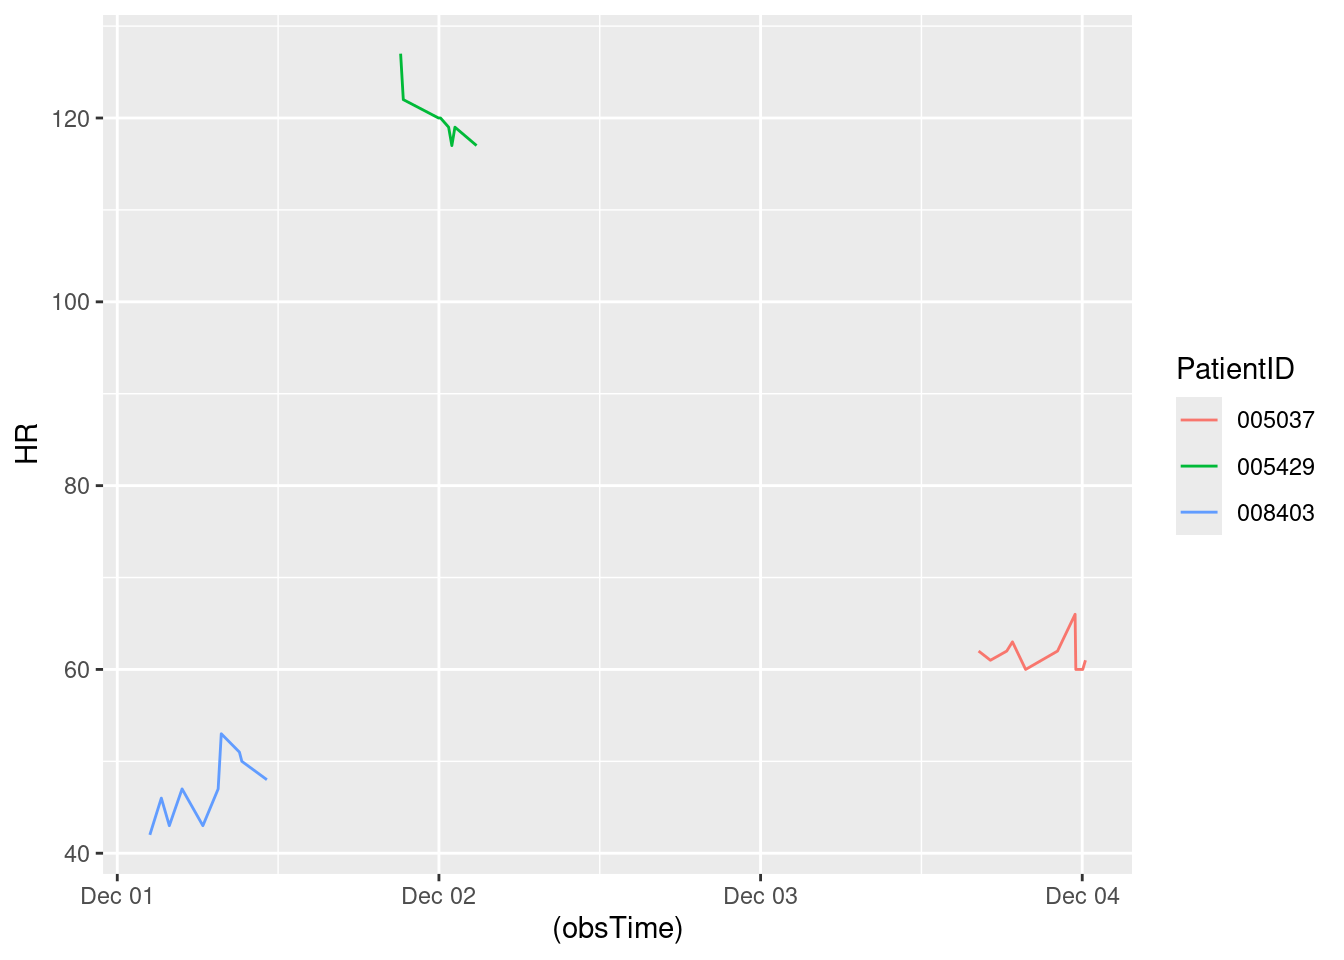
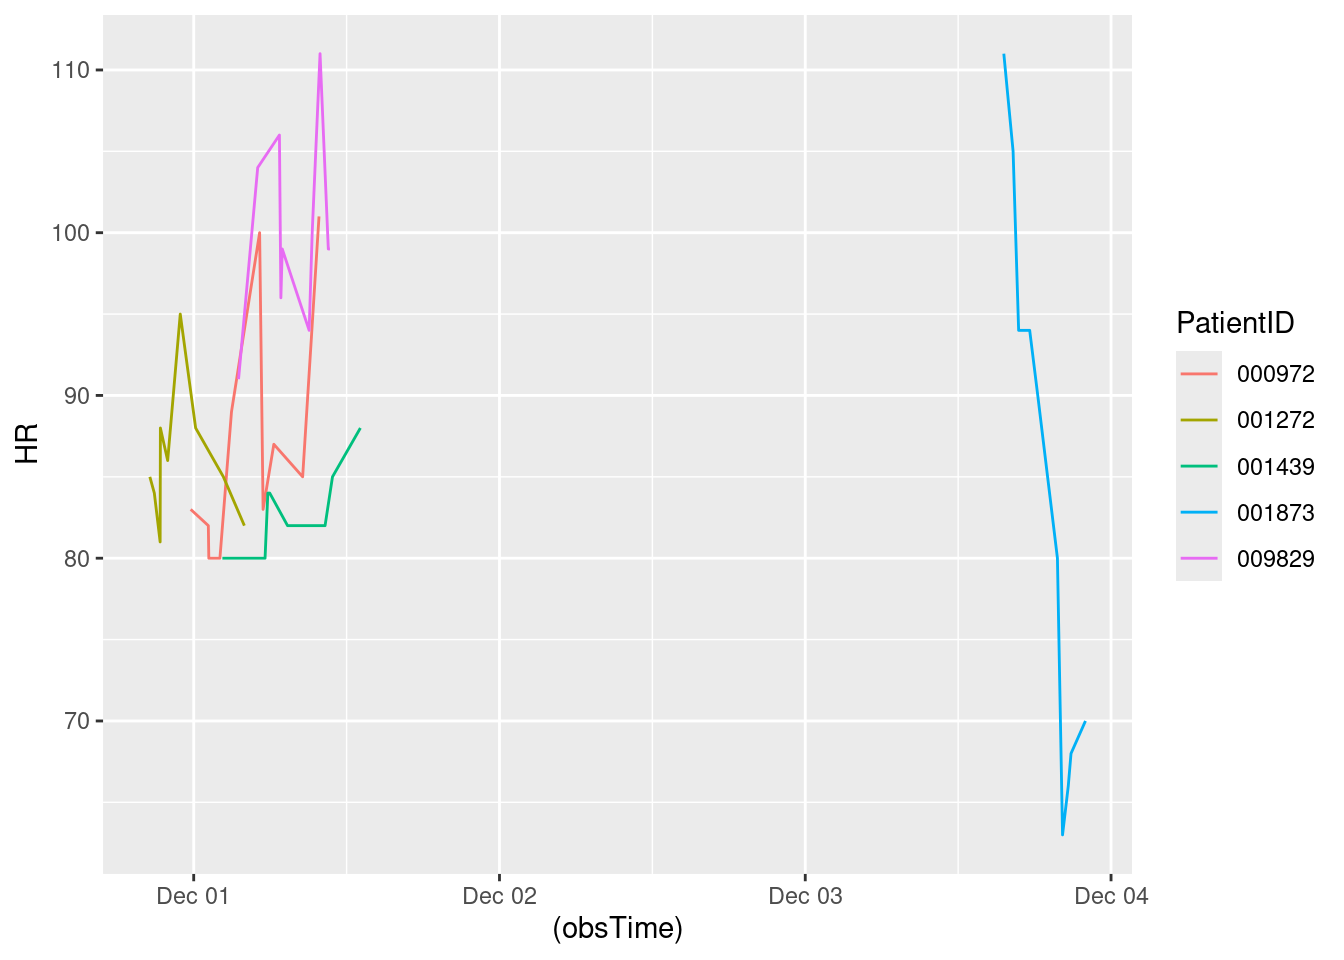
Updated report

diff --git a/HW7.html b/HW7.html
@@ -152,7 +152,7 @@ The following object is masked from 'package:purrr':
 </div>
 <div class="sourceCode cell-code" id="cb8"><pre class="sourceCode r code-with-copy"><code class="sourceCode r"><span id="cb8-1"><a href="#cb8-1" aria-hidden="true" tabindex="-1"></a><span class="fu">toc</span>()</span></code><button title="Copy to Clipboard" class="code-copy-button"><i class="bi"></i></button></pre></div>
 <div class="cell-output cell-output-stdout">
-<pre><code>25.07 sec elapsed</code></pre>
+<pre><code>25.008 sec elapsed</code></pre>
 </div>
 <div class="sourceCode cell-code" id="cb10"><pre class="sourceCode r code-with-copy"><code class="sourceCode r"><span id="cb10-1"><a href="#cb10-1" aria-hidden="true" tabindex="-1"></a><span class="fu">tic</span>()</span>
 <span id="cb10-2"><a href="#cb10-2" aria-hidden="true" tabindex="-1"></a>test1<span class="ot">=</span><span class="fu">makeSepsisDataset</span>(<span class="at">n=</span><span class="dv">50</span>,<span class="at">read_fn =</span> <span class="st">"read_delim"</span>)</span>
@@ -162,7 +162,7 @@ The following object is masked from 'package:purrr':
 </div>
 <div class="sourceCode cell-code" id="cb12"><pre class="sourceCode r code-with-copy"><code class="sourceCode r"><span id="cb12-1"><a href="#cb12-1" aria-hidden="true" tabindex="-1"></a><span class="fu">toc</span>()</span></code><button title="Copy to Clipboard" class="code-copy-button"><i class="bi"></i></button></pre></div>
 <div class="cell-output cell-output-stdout">
-<pre><code>20.392 sec elapsed</code></pre>
+<pre><code>20.691 sec elapsed</code></pre>
 </div>
 <div class="sourceCode cell-code" id="cb14"><pre class="sourceCode r code-with-copy"><code class="sourceCode r"><span id="cb14-1"><a href="#cb14-1" aria-hidden="true" tabindex="-1"></a><span class="fu">tic</span>()</span>
 <span id="cb14-2"><a href="#cb14-2" aria-hidden="true" tabindex="-1"></a>test1<span class="ot">=</span><span class="fu">makeSepsisDataset</span>(<span class="at">n=</span><span class="dv">100</span>,<span class="at">read_fn =</span> <span class="st">"fread"</span>)</span>
@@ -172,7 +172,7 @@ The following object is masked from 'package:purrr':
 </div>
 <div class="sourceCode cell-code" id="cb16"><pre class="sourceCode r code-with-copy"><code class="sourceCode r"><span id="cb16-1"><a href="#cb16-1" aria-hidden="true" tabindex="-1"></a><span class="fu">toc</span>()</span></code><button title="Copy to Clipboard" class="code-copy-button"><i class="bi"></i></button></pre></div>
 <div class="cell-output cell-output-stdout">
-<pre><code>45.165 sec elapsed</code></pre>
+<pre><code>49.755 sec elapsed</code></pre>
 </div>
 <div class="sourceCode cell-code" id="cb18"><pre class="sourceCode r code-with-copy"><code class="sourceCode r"><span id="cb18-1"><a href="#cb18-1" aria-hidden="true" tabindex="-1"></a><span class="fu">tic</span>()</span>
 <span id="cb18-2"><a href="#cb18-2" aria-hidden="true" tabindex="-1"></a>test1<span class="ot">=</span><span class="fu">makeSepsisDataset</span>(<span class="at">n=</span><span class="dv">100</span>,<span class="at">read_fn =</span> <span class="st">"read_delim"</span>)</span>
@@ -182,7 +182,7 @@ The following object is masked from 'package:purrr':
 </div>
 <div class="sourceCode cell-code" id="cb20"><pre class="sourceCode r code-with-copy"><code class="sourceCode r"><span id="cb20-1"><a href="#cb20-1" aria-hidden="true" tabindex="-1"></a><span class="fu">toc</span>()</span></code><button title="Copy to Clipboard" class="code-copy-button"><i class="bi"></i></button></pre></div>
 <div class="cell-output cell-output-stdout">
-<pre><code>40.143 sec elapsed</code></pre>
+<pre><code>40.702 sec elapsed</code></pre>
 </div>
 <div class="sourceCode cell-code" id="cb22"><pre class="sourceCode r code-with-copy"><code class="sourceCode r"><span id="cb22-1"><a href="#cb22-1" aria-hidden="true" tabindex="-1"></a><span class="fu">tic</span>()</span>
 <span id="cb22-2"><a href="#cb22-2" aria-hidden="true" tabindex="-1"></a>test1<span class="ot">=</span><span class="fu">makeSepsisDataset</span>(<span class="at">n=</span><span class="dv">500</span>,<span class="at">read_fn =</span> <span class="st">"fread"</span>)</span>
@@ -192,7 +192,7 @@ The following object is masked from 'package:purrr':
 </div>
 <div class="sourceCode cell-code" id="cb24"><pre class="sourceCode r code-with-copy"><code class="sourceCode r"><span id="cb24-1"><a href="#cb24-1" aria-hidden="true" tabindex="-1"></a><span class="fu">toc</span>()</span></code><button title="Copy to Clipboard" class="code-copy-button"><i class="bi"></i></button></pre></div>
 <div class="cell-output cell-output-stdout">
-<pre><code>226.557 sec elapsed</code></pre>
+<pre><code>241.714 sec elapsed</code></pre>
 </div>
 <div class="sourceCode cell-code" id="cb26"><pre class="sourceCode r code-with-copy"><code class="sourceCode r"><span id="cb26-1"><a href="#cb26-1" aria-hidden="true" tabindex="-1"></a><span class="fu">tic</span>()</span>
 <span id="cb26-2"><a href="#cb26-2" aria-hidden="true" tabindex="-1"></a>test1<span class="ot">=</span><span class="fu">makeSepsisDataset</span>(<span class="at">n=</span><span class="dv">500</span>,<span class="at">read_fn =</span> <span class="st">"read_delim"</span>)</span>
@@ -202,7 +202,7 @@ The following object is masked from 'package:purrr':
 </div>
 <div class="sourceCode cell-code" id="cb28"><pre class="sourceCode r code-with-copy"><code class="sourceCode r"><span id="cb28-1"><a href="#cb28-1" aria-hidden="true" tabindex="-1"></a><span class="fu">toc</span>()</span></code><button title="Copy to Clipboard" class="code-copy-button"><i class="bi"></i></button></pre></div>
 <div class="cell-output cell-output-stdout">
-<pre><code>202.1 sec elapsed</code></pre>
+<pre><code>204.508 sec elapsed</code></pre>
 </div>
 </div>
 <p>Problem 3: Speed reading</p>
@@ -244,7 +244,7 @@ dttm (1): obsTime
 <div class="sourceCode cell-code" id="cb35"><pre class="sourceCode r code-with-copy"><code class="sourceCode r"><span id="cb35-1"><a href="#cb35-1" aria-hidden="true" tabindex="-1"></a><span class="co">#Sys.Date()</span></span>
 <span id="cb35-2"><a href="#cb35-2" aria-hidden="true" tabindex="-1"></a><span class="fu">Sys.time</span>()</span></code><button title="Copy to Clipboard" class="code-copy-button"><i class="bi"></i></button></pre></div>
 <div class="cell-output cell-output-stdout">
-<pre><code>[1] "2024-11-30 19:26:27 UTC"</code></pre>
+<pre><code>[1] "2024-11-30 20:33:28 UTC"</code></pre>
 </div>
 <div class="sourceCode cell-code" id="cb37"><pre class="sourceCode r code-with-copy"><code class="sourceCode r"><span id="cb37-1"><a href="#cb37-1" aria-hidden="true" tabindex="-1"></a>dfnew<span class="ot">=</span>df <span class="sc">%&gt;%</span><span class="fu">subset</span>(SepsisLabel<span class="sc">==</span><span class="dv">1</span>)</span>
 <span id="cb37-2"><a href="#cb37-2" aria-hidden="true" tabindex="-1"></a></span>
@@ -259,22 +259,20 @@ dttm (1): obsTime
 <span id="cb37-11"><a href="#cb37-11" aria-hidden="true" tabindex="-1"></a></span>
 <span id="cb37-12"><a href="#cb37-12" aria-hidden="true" tabindex="-1"></a><span class="fu">print</span>(res)</span></code><button title="Copy to Clipboard" class="code-copy-button"><i class="bi"></i></button></pre></div>
 <div class="cell-output cell-output-stdout">
-<pre><code># A tibble: 3 × 7
-# Groups:   PatientID [3]
+<pre><code># A tibble: 5 × 7
+# Groups:   PatientID [5]
   PatientID ICULOS    HR  Temp  Resp SepsisLabel obsTime            
   &lt;chr&gt;      &lt;int&gt; &lt;int&gt; &lt;dbl&gt; &lt;int&gt;       &lt;int&gt; &lt;dttm&gt;             
-1 005037        77    61    NA    22           1 2024-12-04 00:14:26
-2 005429        32   117    38    23           1 2024-12-02 02:48:25
-3 008403        18    48    NA    20           1 2024-12-01 11:09:47</code></pre>
+1 000972        16   101  NA      29           1 2024-12-01 09:50:04
+2 001272         8    82  NA      15           1 2024-12-01 03:58:34
+3 001439        17    88  37.4    18           1 2024-12-01 13:04:56
+4 001873        74    70  NA      22           1 2024-12-03 21:59:35
+5 009829        16    99  NA      20           1 2024-12-01 10:41:33</code></pre>
 </div>
 </div>
 <div class="cell">
 <div class="sourceCode cell-code" id="cb39"><pre class="sourceCode r code-with-copy"><code class="sourceCode r"><span id="cb39-1"><a href="#cb39-1" aria-hidden="true" tabindex="-1"></a>dfnew <span class="sc">%&gt;%</span></span>
 <span id="cb39-2"><a href="#cb39-2" aria-hidden="true" tabindex="-1"></a>  <span class="fu">ggplot</span>()<span class="sc">+</span><span class="fu">geom_line</span>(<span class="fu">aes</span>(<span class="at">y=</span>HR,<span class="at">x=</span>(obsTime),<span class="at">color=</span>PatientID))</span></code><button title="Copy to Clipboard" class="code-copy-button"><i class="bi"></i></button></pre></div>
-<div class="cell-output cell-output-stderr">
-<pre><code>Warning: Removed 2 rows containing missing values or values outside the scale range
-(`geom_line()`).</code></pre>
-</div>
 <div class="cell-output-display">
 <div>
 <figure class="figure">
@@ -287,7 +285,7 @@ dttm (1): obsTime
 <section id="display-the-most-recent-data" class="level2">
 <h2 class="anchored" data-anchor-id="display-the-most-recent-data">Display the most recent data</h2>
 <div class="cell">
-<div class="sourceCode cell-code" id="cb41"><pre class="sourceCode r code-with-copy"><code class="sourceCode r"><span id="cb41-1"><a href="#cb41-1" aria-hidden="true" tabindex="-1"></a>most_recent_data</span></code><button title="Copy to Clipboard" class="code-copy-button"><i class="bi"></i></button></pre></div>
+<div class="sourceCode cell-code" id="cb40"><pre class="sourceCode r code-with-copy"><code class="sourceCode r"><span id="cb40-1"><a href="#cb40-1" aria-hidden="true" tabindex="-1"></a>most_recent_data</span></code><button title="Copy to Clipboard" class="code-copy-button"><i class="bi"></i></button></pre></div>
 <div class="cell-output cell-output-stdout">
 <pre><code># A tibble: 50 × 7
 # Groups:   PatientID [50]
@@ -310,32 +308,32 @@ dttm (1): obsTime
 <section id="calculate-the-difference" class="level2">
 <h2 class="anchored" data-anchor-id="calculate-the-difference">Calculate the difference</h2>
 <div class="cell">
-<div class="sourceCode cell-code" id="cb43"><pre class="sourceCode r code-with-copy"><code class="sourceCode r"><span id="cb43-1"><a href="#cb43-1" aria-hidden="true" tabindex="-1"></a><span class="fu">library</span>(dplyr)</span>
-<span id="cb43-2"><a href="#cb43-2" aria-hidden="true" tabindex="-1"></a><span class="fu">library</span>(tidyr)</span>
-<span id="cb43-3"><a href="#cb43-3" aria-hidden="true" tabindex="-1"></a><span class="fu">library</span>(knitr)</span>
-<span id="cb43-4"><a href="#cb43-4" aria-hidden="true" tabindex="-1"></a>get_observation_data <span class="ot">&lt;-</span> <span class="cf">function</span>(data, n, column_suffix) {</span>
-<span id="cb43-5"><a href="#cb43-5" aria-hidden="true" tabindex="-1"></a>  data <span class="sc">%&gt;%</span></span>
-<span id="cb43-6"><a href="#cb43-6" aria-hidden="true" tabindex="-1"></a>    <span class="fu">group_by</span>(PatientID) <span class="sc">%&gt;%</span></span>
-<span id="cb43-7"><a href="#cb43-7" aria-hidden="true" tabindex="-1"></a>    <span class="fu">slice_max</span>(<span class="at">order_by =</span> obsTime, <span class="at">n =</span> n) <span class="sc">%&gt;%</span></span>
-<span id="cb43-8"><a href="#cb43-8" aria-hidden="true" tabindex="-1"></a>    <span class="fu">select</span>(<span class="sc">-</span><span class="fu">c</span>(ICULOS, SepsisLabel, obsTime)) <span class="sc">%&gt;%</span></span>
-<span id="cb43-9"><a href="#cb43-9" aria-hidden="true" tabindex="-1"></a>    <span class="fu">rename_at</span>(<span class="fu">vars</span>(HR, Temp, Resp),</span>
-<span id="cb43-10"><a href="#cb43-10" aria-hidden="true" tabindex="-1"></a>              <span class="fu">list</span>(<span class="sc">~</span><span class="fu">paste0</span>(., <span class="st">"_"</span>, column_suffix)))</span>
-<span id="cb43-11"><a href="#cb43-11" aria-hidden="true" tabindex="-1"></a>}</span>
-<span id="cb43-12"><a href="#cb43-12" aria-hidden="true" tabindex="-1"></a></span>
-<span id="cb43-13"><a href="#cb43-13" aria-hidden="true" tabindex="-1"></a></span>
-<span id="cb43-14"><a href="#cb43-14" aria-hidden="true" tabindex="-1"></a></span>
-<span id="cb43-15"><a href="#cb43-15" aria-hidden="true" tabindex="-1"></a></span>
-<span id="cb43-16"><a href="#cb43-16" aria-hidden="true" tabindex="-1"></a>last_obs <span class="ot">&lt;-</span> <span class="fu">get_observation_data</span>(new_data, <span class="dv">1</span>, <span class="st">"last"</span>)</span>
-<span id="cb43-17"><a href="#cb43-17" aria-hidden="true" tabindex="-1"></a>penultimate_obs <span class="ot">&lt;-</span> <span class="fu">get_observation_data</span>(new_data, <span class="dv">2</span>, <span class="st">"penult"</span>)</span>
-<span id="cb43-18"><a href="#cb43-18" aria-hidden="true" tabindex="-1"></a>joined_data <span class="ot">&lt;-</span> <span class="fu">full_join</span>(last_obs, penultimate_obs) <span class="sc">%&gt;%</span></span>
-<span id="cb43-19"><a href="#cb43-19" aria-hidden="true" tabindex="-1"></a>  <span class="fu">transmute</span>(PatientID,</span>
-<span id="cb43-20"><a href="#cb43-20" aria-hidden="true" tabindex="-1"></a>            <span class="st">`</span><span class="at">Temperature change</span><span class="st">`</span> <span class="ot">=</span> Temp_last <span class="sc">-</span> Temp_penult,</span>
-<span id="cb43-21"><a href="#cb43-21" aria-hidden="true" tabindex="-1"></a>            <span class="st">`</span><span class="at">Heart rate change</span><span class="st">`</span> <span class="ot">=</span> HR_last <span class="sc">-</span> HR_penult,</span>
-<span id="cb43-22"><a href="#cb43-22" aria-hidden="true" tabindex="-1"></a>            <span class="st">`</span><span class="at">Respiratory rate change</span><span class="st">`</span> <span class="ot">=</span> Resp_last <span class="sc">-</span> Resp_penult)</span></code><button title="Copy to Clipboard" class="code-copy-button"><i class="bi"></i></button></pre></div>
+<div class="sourceCode cell-code" id="cb42"><pre class="sourceCode r code-with-copy"><code class="sourceCode r"><span id="cb42-1"><a href="#cb42-1" aria-hidden="true" tabindex="-1"></a><span class="fu">library</span>(dplyr)</span>
+<span id="cb42-2"><a href="#cb42-2" aria-hidden="true" tabindex="-1"></a><span class="fu">library</span>(tidyr)</span>
+<span id="cb42-3"><a href="#cb42-3" aria-hidden="true" tabindex="-1"></a><span class="fu">library</span>(knitr)</span>
+<span id="cb42-4"><a href="#cb42-4" aria-hidden="true" tabindex="-1"></a>get_observation_data <span class="ot">&lt;-</span> <span class="cf">function</span>(data, n, column_suffix) {</span>
+<span id="cb42-5"><a href="#cb42-5" aria-hidden="true" tabindex="-1"></a>  data <span class="sc">%&gt;%</span></span>
+<span id="cb42-6"><a href="#cb42-6" aria-hidden="true" tabindex="-1"></a>    <span class="fu">group_by</span>(PatientID) <span class="sc">%&gt;%</span></span>
+<span id="cb42-7"><a href="#cb42-7" aria-hidden="true" tabindex="-1"></a>    <span class="fu">slice_max</span>(<span class="at">order_by =</span> obsTime, <span class="at">n =</span> n) <span class="sc">%&gt;%</span></span>
+<span id="cb42-8"><a href="#cb42-8" aria-hidden="true" tabindex="-1"></a>    <span class="fu">select</span>(<span class="sc">-</span><span class="fu">c</span>(ICULOS, SepsisLabel, obsTime)) <span class="sc">%&gt;%</span></span>
+<span id="cb42-9"><a href="#cb42-9" aria-hidden="true" tabindex="-1"></a>    <span class="fu">rename_at</span>(<span class="fu">vars</span>(HR, Temp, Resp),</span>
+<span id="cb42-10"><a href="#cb42-10" aria-hidden="true" tabindex="-1"></a>              <span class="fu">list</span>(<span class="sc">~</span><span class="fu">paste0</span>(., <span class="st">"_"</span>, column_suffix)))</span>
+<span id="cb42-11"><a href="#cb42-11" aria-hidden="true" tabindex="-1"></a>}</span>
+<span id="cb42-12"><a href="#cb42-12" aria-hidden="true" tabindex="-1"></a></span>
+<span id="cb42-13"><a href="#cb42-13" aria-hidden="true" tabindex="-1"></a></span>
+<span id="cb42-14"><a href="#cb42-14" aria-hidden="true" tabindex="-1"></a></span>
+<span id="cb42-15"><a href="#cb42-15" aria-hidden="true" tabindex="-1"></a></span>
+<span id="cb42-16"><a href="#cb42-16" aria-hidden="true" tabindex="-1"></a>last_obs <span class="ot">&lt;-</span> <span class="fu">get_observation_data</span>(new_data, <span class="dv">1</span>, <span class="st">"last"</span>)</span>
+<span id="cb42-17"><a href="#cb42-17" aria-hidden="true" tabindex="-1"></a>penultimate_obs <span class="ot">&lt;-</span> <span class="fu">get_observation_data</span>(new_data, <span class="dv">2</span>, <span class="st">"penult"</span>)</span>
+<span id="cb42-18"><a href="#cb42-18" aria-hidden="true" tabindex="-1"></a>joined_data <span class="ot">&lt;-</span> <span class="fu">full_join</span>(last_obs, penultimate_obs) <span class="sc">%&gt;%</span></span>
+<span id="cb42-19"><a href="#cb42-19" aria-hidden="true" tabindex="-1"></a>  <span class="fu">transmute</span>(PatientID,</span>
+<span id="cb42-20"><a href="#cb42-20" aria-hidden="true" tabindex="-1"></a>            <span class="st">`</span><span class="at">Temperature change</span><span class="st">`</span> <span class="ot">=</span> Temp_last <span class="sc">-</span> Temp_penult,</span>
+<span id="cb42-21"><a href="#cb42-21" aria-hidden="true" tabindex="-1"></a>            <span class="st">`</span><span class="at">Heart rate change</span><span class="st">`</span> <span class="ot">=</span> HR_last <span class="sc">-</span> HR_penult,</span>
+<span id="cb42-22"><a href="#cb42-22" aria-hidden="true" tabindex="-1"></a>            <span class="st">`</span><span class="at">Respiratory rate change</span><span class="st">`</span> <span class="ot">=</span> Resp_last <span class="sc">-</span> Resp_penult)</span></code><button title="Copy to Clipboard" class="code-copy-button"><i class="bi"></i></button></pre></div>
 <div class="cell-output cell-output-stderr">
 <pre><code>Joining with `by = join_by(PatientID)`</code></pre>
 </div>
-<div class="sourceCode cell-code" id="cb45"><pre class="sourceCode r code-with-copy"><code class="sourceCode r"><span id="cb45-1"><a href="#cb45-1" aria-hidden="true" tabindex="-1"></a><span class="fu">kable</span>(joined_data, <span class="at">caption =</span> <span class="st">"Patients' Recent Changes in Vital Stats"</span>)</span></code><button title="Copy to Clipboard" class="code-copy-button"><i class="bi"></i></button></pre></div>
+<div class="sourceCode cell-code" id="cb44"><pre class="sourceCode r code-with-copy"><code class="sourceCode r"><span id="cb44-1"><a href="#cb44-1" aria-hidden="true" tabindex="-1"></a><span class="fu">kable</span>(joined_data, <span class="at">caption =</span> <span class="st">"Patients' Recent Changes in Vital Stats"</span>)</span></code><button title="Copy to Clipboard" class="code-copy-button"><i class="bi"></i></button></pre></div>
 <div class="cell-output-display">
 <table class="caption-top table table-sm table-striped small">
 <caption>Patients’ Recent Changes in Vital Stats</caption>
